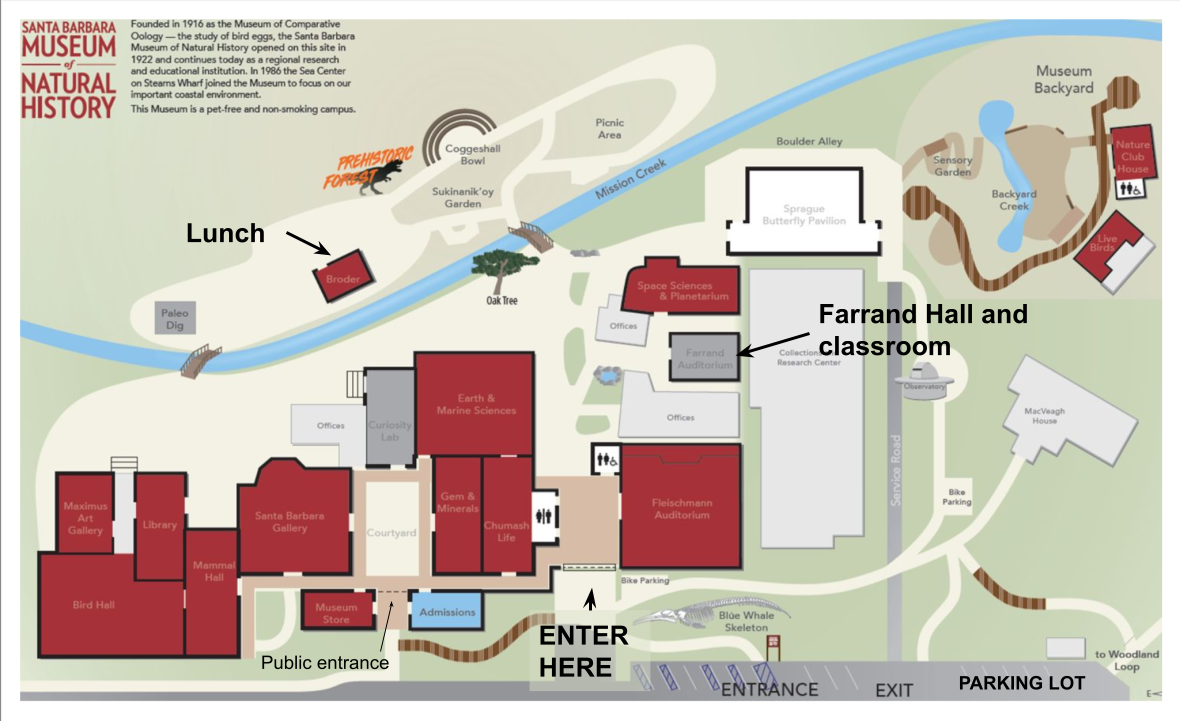
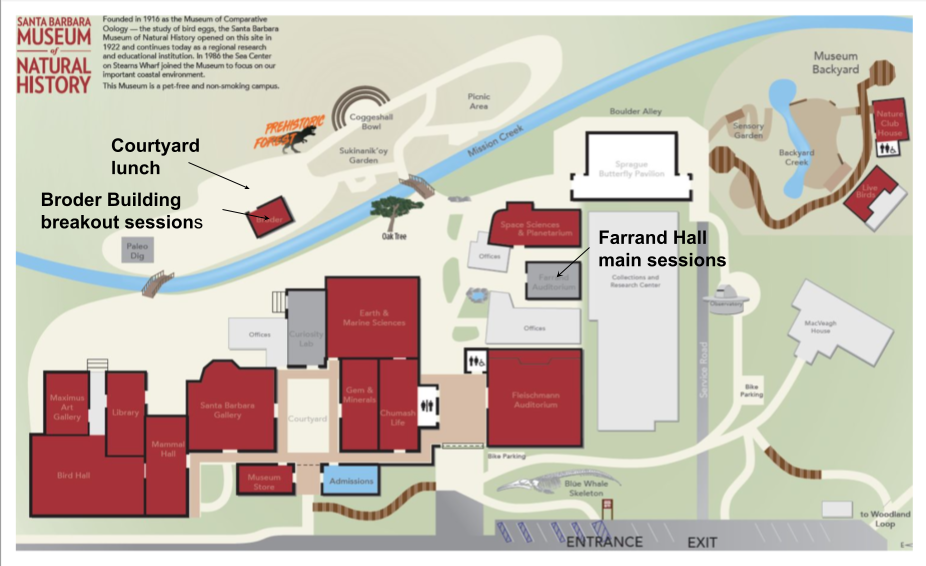
Updated and refactored ObsForum site ready for 2026 meeting

diff --git a/docs/observatories_forum.md b/docs/observatories_forum.md
@@ -8,20 +8,12 @@ menubar: forum_menu
 
 # Observatories Forum
 
-## Sept 23-25, 2025         &#10209;        Santa Barbara, CA
+## Oct 28-30, 2026         &#10209;        Santa Barbara, CA
 
 The Observatories Forum is a workshop series designed to bring together developers and engineers from different 
 facilities spanning a range of wavelengths, with developers from the science community.  The goal is to share 
 experience, tools, challenges and plans, particularly those associated with enabling time domain and multi-messenger 
 astrophysics.   
-
-<figure class="image">
-  <img src="/assets/images/obsforum2025_photo.jpg">
-    <figcaption>Photo of in-person workshop participants</figcaption>
-</figure>
-
-Thank you to everyone who made this workshop so productive, both in-person and online!
-The presentations and session recording are linked from the [agenda tab](/observatories_forum/agenda/).  
 
 Topics covered included:
 - Observatory software and its challenges
@@ -32,3 +24,8 @@ Topics covered included:
     signal-to-noise/exposure time calculators etc
 - Recent and planned development
   - Towards generalized APIs for proposal, observation requests across wavelengths
+
+<figure class="image">
+  <img src="/assets/images/obsforum2025_photo.jpg">
+    <figcaption>Photo of in-person participants of the 2025 workshop</figcaption>
+</figure>

diff --git a/docs/observatories_forum/2025/agenda2025_1.md b/docs/observatories_forum/2025/agenda2025_1.md
@@ -2,7 +2,7 @@
 layout: page
 title: Agenda
 show_sidebar: false
-menubar: forum_menu
+menubar: previous_forum_menu
 ---
 
 # Agenda
@@ -12,7 +12,7 @@ All times are in the Pacific Daylight Time zone.
 
 All speakers should allow ~5min for questions at the end of their talk or demo.  I.e. a 30min slot = 25min + 5min. 
 
-| <a href="/observatories_forum/agenda/"><button type="button">Day 1: Tuesday, Sept 23</button></a> | <a href="/observatories_forum/agenda2/"><button type="button">Day 2: Wednesday, Sept 24</button></a> | <a href="/observatories_forum/agenda3/"><button type="button">Day 3: Thursday, Sept 25</button></a> |
+| <a href="/observatories_forum/2025/agenda2025_1/"><button type="button">Day 1: Tuesday, Sept 23</button></a> | <a href="/observatories_forum/2025/agenda2025_2/"><button type="button">Day 2: Wednesday, Sept 24</button></a> | <a href="/observatories_forum/2025/agenda2025_3/"><button type="button">Day 3: Thursday, Sept 25</button></a> |
 
 ## Day 1: Tuesday, Sept 23, 2025
 ### AM Session 1: Time Domain Astrophysics and the software ecosystem

diff --git a/docs/observatories_forum/2025/agenda2025_2.md b/docs/observatories_forum/2025/agenda2025_2.md
@@ -2,7 +2,7 @@
 layout: page
 title: Agenda
 show_sidebar: false
-menubar: forum_menu
+menubar: previous_forum_menu
 ---
 
 # Agenda
@@ -12,7 +12,7 @@ All times are in the Pacific Daylight Time zone.
 
 All speakers should allow ~5min for questions at the end of their talk or demo.  I.e. a 30min slot = 25min + 5min. 
 
-| <a href="/observatories_forum/agenda/"><button type="button">Day 1: Tuesday, Sept 23</button></a> | <a href="/observatories_forum/agenda2/"><button type="button">Day 2: Wednesday, Sept 24</button></a> | <a href="/observatories_forum/agenda3/"><button type="button">Day 3: Thursday, Sept 25</button></a> |
+| <a href="/observatories_forum/2025/agenda2025_1/"><button type="button">Day 1: Tuesday, Sept 23</button></a> | <a href="/observatories_forum/2025/agenda2025_2/"><button type="button">Day 2: Wednesday, Sept 24</button></a> | <a href="/observatories_forum/2025/agenda2025_3/"><button type="button">Day 3: Thursday, Sept 25</button></a> |
 
 ## Day 2: Wednesday, Sept 24, 2025
 ### AM Session 1: Radio and submm facilities

diff --git a/docs/observatories_forum/2025/agenda2025_3.md b/docs/observatories_forum/2025/agenda2025_3.md
@@ -2,7 +2,7 @@
 layout: page
 title: Agenda
 show_sidebar: false
-menubar: forum_menu
+menubar: previous_forum_menu
 ---
 
 # Agenda
@@ -12,7 +12,7 @@ All times are in the Pacific Daylight Time zone.
 
 All speakers should allow ~5min for questions at the end of their talk or demo.  I.e. a 30min slot = 25min + 5min. 
 
-| <a href="/observatories_forum/agenda/"><button type="button">Day 1: Tuesday, Sept 23</button></a> | <a href="/observatories_forum/agenda2/"><button type="button">Day 2: Wednesday, Sept 24</button></a> | <a href="/observatories_forum/agenda3/"><button type="button">Day 3: Thursday, Sept 25</button></a> |
+| <a href="/observatories_forum/2025/agenda2025_1/"><button type="button">Day 1: Tuesday, Sept 23</button></a> | <a href="/observatories_forum/2025/agenda2025_2/"><button type="button">Day 2: Wednesday, Sept 24</button></a> | <a href="/observatories_forum/2025/agenda2025_3/"><button type="button">Day 3: Thursday, Sept 25</button></a> |
 
 ## Day 3: Thursday, Sept 25, 2025
 ### AM Session 1: Science with AEON	

diff --git a/docs/observatories_forum/food_and_drink.md b/docs/observatories_forum/food_and_drink.md
@@ -8,10 +8,10 @@ menubar: forum_menu
 # Food and Drink
 
 ## During the day
-Refreshments will be provided for morning and afternoon coffee.  
+Refreshments will be provided for morning and afternoon coffee, and lunch will be catered at the museum.  
 
 ## Dining Options
 
-Santa Barbara has a wide range of excellent restaurants, clustered downtown but also in Goleta.  
+For the evening, Santa Barbara has a wide range of excellent restaurants, clustered downtown but also in Goleta.  
 
 <iframe src="https://www.google.com/maps/embed?pb=!1m16!1m12!1m3!1d27939.974305768552!2d-119.71758109247445!3d34.42449196137262!2m3!1f0!2f0!3f0!3m2!1i1024!2i768!4f13.1!2m1!1sdinner%20in%20downtown%20santa%20barbara%2C%20ca!5e1!3m2!1sen!2sus!4v1753416638788!5m2!1sen!2sus" width="600" height="450" style="border:0;" allowfullscreen="" loading="lazy" referrerpolicy="no-referrer-when-downgrade"></iframe>

diff --git a/docs/observatories_forum/previous_workshops.md b/docs/observatories_forum/previous_workshops.md
@@ -2,10 +2,20 @@
 layout: page
 title: Previous Workshops
 show_sidebar: false
-menubar: forum_menu
+menubar: previous_forum_menu
 ---
 
 # Previous Workshops
+
+## Observatories Forum 2025
+### Santa Barbara, CA | Sept 23-25, 2025
+
+[Agenda and content](/observatories_forum/2025/agenda2025_1/)
+
+The first Observatories Forum workshop was a 3-day event featuring presentations from 
+representatives from optical and radio observatories on the ground and in space, 
+as well as talks on a range of different time domain science.  The agenda 
+allowed time for small-group hacking sessions as well as discussions and demonstrations.
 
 ## Observatories Workshop at LSST@Europe V
 ### Poreč, Croatia | September 25-29 2023

diff --git a/docs/observatories_forum/agenda2026_1.md b/docs/observatories_forum/agenda2026_1.md
@@ -1,0 +1,14 @@
+---
+layout: page
+title: Agenda
+show_sidebar: false
+menubar: forum_menu
+---
+
+# Agenda
+
+The workshop will feature a mix of talks, demonstrations and hands-on hack sessions. 
+Topics covered are wide ranging and include observatory software and operations, 
+instrumentation and policy with a focus on enabling time domain science.  
+Emphasis is placed on what researchers need to accomplish their scientific goals, 
+and talks feature the latest scientific drivers and associated technologies in time domain astrophysics. 

diff --git a/docs/observatories_forum/speaker_instructions.md b/docs/observatories_forum/speaker_instructions.md
@@ -7,7 +7,7 @@ menubar: forum_menu
 
 # Speaker Instructions
 Please upload your talk slides **at least one session ahead** of the session where you will speak. 
-The URL for the shared drive is bookmarked on the Slack channel #obsforum2025.  
+The URL for the shared drive is bookmarked on the Slack channel #obsforum2026.  
 
 Please also come to the podium during the break to ensure that your talk displays properly - 
 this is particularly important if you have movies or sound during your presentation.  We 

diff --git a/docs/observatories_forum/registration.md b/docs/observatories_forum/registration.md
@@ -7,4 +7,4 @@ menubar: forum_menu
 
 # Registration 
 
-Registration for this event is now closed.  We hope you'll join us next time!
+Registration for this event is not yet open.  Please check back soon!
